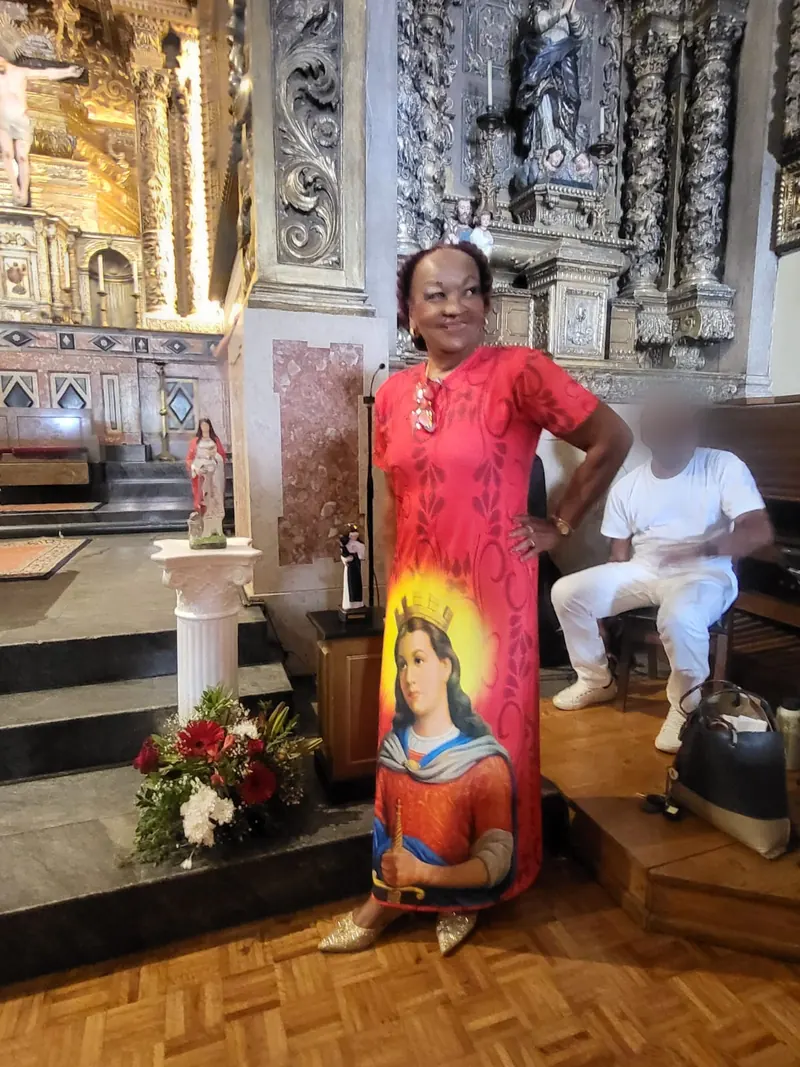
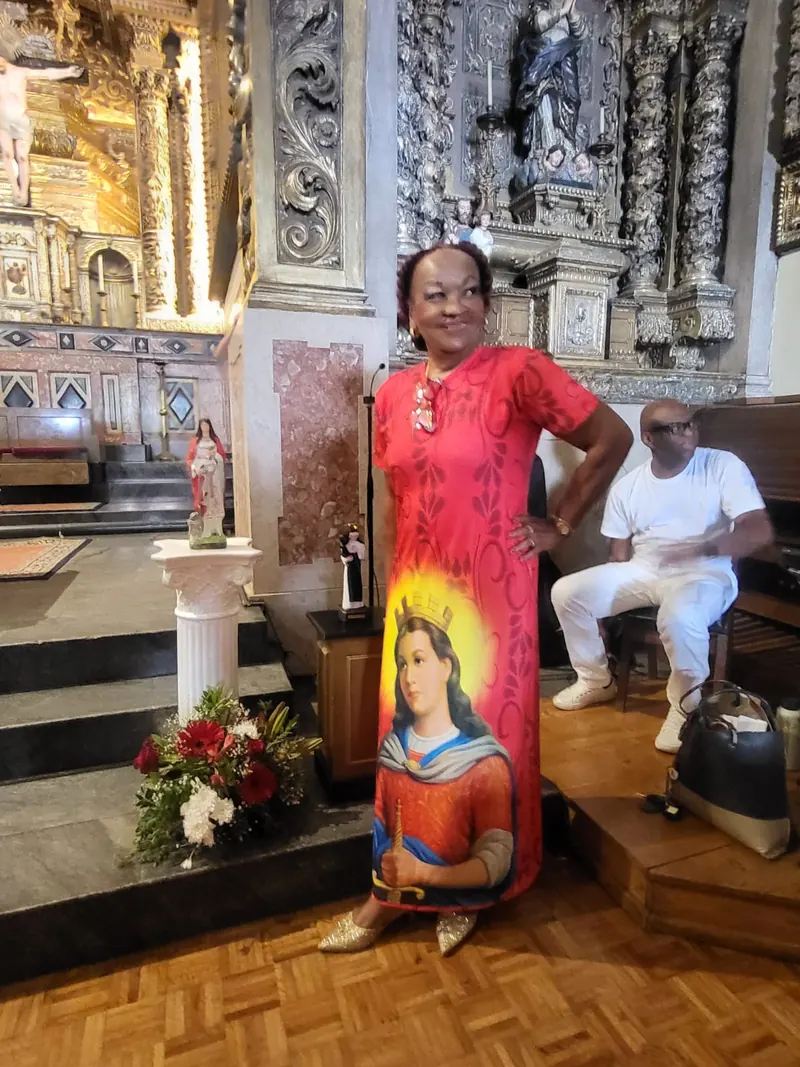
Passa os Amigos e os Guardiões para uma página própria e publica a fotografia inteira.
O texto deixa de estar no meio da festa. A foto da igreja sai sem desfoque, como ela enviou.

Changed region(s): [[0.75, 0.3402, 0.9062, 0.4639]]

diff --git a/src/data/eventos.ts b/src/data/eventos.ts
@@ -1,6 +1,4 @@
 // Facts only from the sources listed per event (checked 2026-11-11). Research and pending items: docs/PESQUISA-ASSOCIACAO.md.
-import type { Foto } from "./eventos-fotos";
-
 export type Fonte = { titulo: string; url: string };
 
 export type Evento = {
@@ -23,22 +21,7 @@ export type Evento = {
   celebracao?: Celebracao;
   // Institutional video; the page only draws it when `ficheiro` exists in public/ at build time.
   video?: VideoEvento;
-  // One window in the association's voice (president's text). Not a press fact.
-  janela?: JanelaGrupos;
   fontes: Fonte[];
-};
-
-export type JanelaGrupos = {
-  titulo: string;
-  intro: string[];
-  chamada: string;
-  grupos: string[];
-  fecho: string[];
-  saudacao: string;
-  adesaoTitulo: string;
-  adesao: string[];
-  legendaGaleria: string;
-  foto: Foto;
 };
 
 export type Celebracao = {
@@ -110,38 +93,6 @@ export const eventos: Evento[] = [
       descricao: "Como foi a 1.ª Festa de Santa Bárbara em Lisboa, organizada pelo Instituto Maria Andreza Sá em Arroios, de 4 a 6 de setembro de 2026.",
       duracao: "PT1M8S",
       carregadoEm: "2026-11-15",
-    },
-    janela: {
-      titulo: "Quem Somos: Os Amigos de Santa Bárbara, Protegidos por Oyá e os Guardiões da Ancestralidade",
-      intro: [
-        "A nossa história é feita de fé, gratidão e do reencontro de duas margens do Atlântico. Nascemos da união e do propósito de celebrar a espiritualidade e honrar as nossas raízes através da 1.ª Festa de Santa Bárbara em Lisboa, realizada no dia 6 de setembro de 2026, com uma emocionante missa na Igreja de Nossa Senhora dos Anjos, em Arroios.",
-        "Este marco histórico nasceu como projeto e produção do Instituto Cultural e Artístico Luso-Brasileiro Maria Andreza Sá, trazido a Lisboa como um gesto profundo de agradecimento ao povo português. A devoção a Santa Bárbara, celebrada há 384 anos em Salvador da Bahia, chegou a terras baianas pelas mãos de um casal português: Francisco Lago e Andreza de Araújo — nome que, por desígnio e bênção da vida, é também o da avó materna da fundadora deste projeto. Trazer esta festa para Portugal é devolver em forma de amor, cultura e fé uma herança que atravessou séculos.",
-      ],
-      chamada: "É neste espírito de irmandade que se ergue o nosso grupo:",
-      grupos: [
-        "Os Amigos de Santa Bárbara somos todos nós: homens e mulheres movidos pela fé, pela gratidão e pelo desejo de partilhar luz e esperança, reunindo as comunidades brasileira e portuguesa de coração aberto.",
-        "Os Guardiões da Ancestralidade representam o pilar sagrado da nossa Religião de Matriz Africana. Celebramos, reverenciamos e louvamos Oyá — essa Mulher forte, guerreira e imbatível, senhora dos ventos e das tempestades, que transforma e abre caminhos. Honramos profundamente os nossos Babás e herdeiros dessa tradição, que guardam os segredos, o axé e a magia da transformação, comprometidos com o cuidado e o destino de tantos que batem à sua porta em busca de amparo e renovação.",
-      ],
-      fecho: [
-        "Em Lisboa, celebramos esta ponte viva entre a Bahia e Portugal, entre a tradição católica e a força ancestral africana, num símbolo de respeito, resistência e união.",
-        "Que os ventos de Oyá e a proteção de Santa Bárbara continuem a guiar os nossos passos e a abençoar esta caminhada!",
-      ],
-      saudacao: "Eparrey Oyá! Salve Santa Bárbara!",
-      adesaoTitulo: "Junte-se a nós nas próximas edições!",
-      adesao: [
-        "A nossa caminhada está apenas a começar e as portas estão abertas para todos os que desejam partilhar esta energia de fé, cultura e irmandade. Se sente o chamado de Santa Bárbara, a força dos ventos de Oyá ou simplesmente deseja apoiar e participar na 2.ª Festa de Santa Bárbara em Lisboa (2027) e nas atividades do nosso grupo, venha fazer parte desta família!",
-        "Seja como devoto, voluntário, apoiante cultural ou membro da comunidade, a sua presença fortalece a nossa ponte entre a Bahia e Portugal.",
-      ],
-      legendaGaleria:
-        "Registos da 1.ª Festa de Santa Bárbara em Lisboa, no dia 6 de setembro de 2026. Da emocionante celebração na Igreja de Nossa Senhora dos Anjos ao cortejo pelas ruas de Arroios até ao Largo de Santa Bárbara, onde a fé, a cultura baiana e a ancestralidade se uniram num abraço histórico entre o Brasil e Portugal.",
-      foto: {
-        src: "/festa/maria-andreza-igreja-dos-anjos.webp",
-        src800: "/festa/maria-andreza-igreja-dos-anjos-800.webp",
-        alt: "Maria Andreza Sá na Igreja de Nossa Senhora dos Anjos, de vestido vermelho com a imagem de Santa Bárbara, na 1.ª Festa de Santa Bárbara em Lisboa.",
-        largura: 1200,
-        altura: 1600,
-        origem: "Fotografia enviada pela presidente",
-      },
     },
     fontes: [
       {

diff --git a/src/data/grupos.ts b/src/data/grupos.ts
@@ -1,0 +1,38 @@
+// President's text, 2026-11-23. One page for both groups. No member list.
+import type { Foto } from "./eventos-fotos";
+
+export const gruposPath = "/amigos-e-guardioes/";
+
+export const grupos = {
+  titulo: "Quem Somos: Os Amigos de Santa Bárbara, Protegidos por Oyá e os Guardiões da Ancestralidade",
+  intro: [
+    "A nossa história é feita de fé, gratidão e do reencontro de duas margens do Atlântico. Nascemos da união e do propósito de celebrar a espiritualidade e honrar as nossas raízes através da 1.ª Festa de Santa Bárbara em Lisboa, realizada no dia 6 de setembro de 2026, com uma emocionante missa na Igreja de Nossa Senhora dos Anjos, em Arroios.",
+    "Este marco histórico nasceu como projeto e produção do Instituto Cultural e Artístico Luso-Brasileiro Maria Andreza Sá, trazido a Lisboa como um gesto profundo de agradecimento ao povo português. A devoção a Santa Bárbara, celebrada há 384 anos em Salvador da Bahia, chegou a terras baianas pelas mãos de um casal português: Francisco Lago e Andreza de Araújo — nome que, por desígnio e bênção da vida, é também o da avó materna da fundadora deste projeto. Trazer esta festa para Portugal é devolver em forma de amor, cultura e fé uma herança que atravessou séculos.",
+  ],
+  chamada: "É neste espírito de irmandade que se ergue o nosso grupo:",
+  grupos: [
+    "Os Amigos de Santa Bárbara somos todos nós: homens e mulheres movidos pela fé, pela gratidão e pelo desejo de partilhar luz e esperança, reunindo as comunidades brasileira e portuguesa de coração aberto.",
+    "Os Guardiões da Ancestralidade representam o pilar sagrado da nossa Religião de Matriz Africana. Celebramos, reverenciamos e louvamos Oyá — essa Mulher forte, guerreira e imbatível, senhora dos ventos e das tempestades, que transforma e abre caminhos. Honramos profundamente os nossos Babás e herdeiros dessa tradição, que guardam os segredos, o axé e a magia da transformação, comprometidos com o cuidado e o destino de tantos que batem à sua porta em busca de amparo e renovação.",
+  ],
+  fecho: [
+    "Em Lisboa, celebramos esta ponte viva entre a Bahia e Portugal, entre a tradição católica e a força ancestral africana, num símbolo de respeito, resistência e união.",
+    "Que os ventos de Oyá e a proteção de Santa Bárbara continuem a guiar os nossos passos e a abençoar esta caminhada!",
+  ],
+  saudacao: "Eparrey Oyá! Salve Santa Bárbara!",
+  memoriasTitulo: "Memórias de um Dia Histórico: 6 de setembro de 2026",
+  memorias:
+    "Registos da 1.ª Festa de Santa Bárbara em Lisboa, no dia 6 de setembro de 2026. Da emocionante celebração na Igreja de Nossa Senhora dos Anjos ao cortejo pelas ruas de Arroios até ao Largo de Santa Bárbara, onde a fé, a cultura baiana e a ancestralidade se uniram num abraço histórico entre o Brasil e Portugal.",
+  adesaoTitulo: "Junte-se a nós nas próximas edições!",
+  adesao: [
+    "A nossa caminhada está apenas a começar e as portas estão abertas para todos os que desejam partilhar esta energia de fé, cultura e irmandade. Se sente o chamado de Santa Bárbara, a força dos ventos de Oyá ou simplesmente deseja apoiar e participar na 2.ª Festa de Santa Bárbara em Lisboa (2027) e nas atividades do nosso grupo, venha fazer parte desta família!",
+    "Seja como devoto, voluntário, apoiante cultural ou membro da comunidade, a sua presença fortalece a nossa ponte entre a Bahia e Portugal.",
+  ],
+  foto: {
+    src: "/festa/maria-andreza-igreja-dos-anjos.webp",
+    src800: "/festa/maria-andreza-igreja-dos-anjos-800.webp",
+    alt: "Maria Andreza Sá na Igreja de Nossa Senhora dos Anjos, de vestido vermelho com a imagem de Santa Bárbara, com uma pessoa sentada ao lado, na 1.ª Festa de Santa Bárbara em Lisboa.",
+    largura: 1200,
+    altura: 1600,
+    origem: "Fotografia enviada pela presidente",
+  } satisfies Foto,
+};

diff --git a/src/styles/global.css b/src/styles/global.css
@@ -825,8 +825,6 @@ a[data-slot="button"] { text-decoration: none; }
 @media (min-width: 1100px) {
   .areas__grid { grid-template-columns: repeat(6, 1fr); gap: 20px; }
   .area { grid-column: span 2; }
-  .area:nth-child(4),
-  .area:nth-child(5) { grid-column: span 3; }
 }
 
 /* Partners. One entry is a wide plate; more entries share the same card in a grid. */
@@ -965,6 +963,12 @@ a[data-slot="button"] { text-decoration: none; }
   font-size: clamp(2.5rem, 1.6rem + 4vw, 4.5rem);
   line-height: 1.04;
   letter-spacing: -0.02em;
+}
+.page-hero--long h1 {
+  max-width: 28ch;
+  font-size: clamp(1.75rem, 1.15rem + 1.6vw, 2.6rem);
+  line-height: 1.15;
+  letter-spacing: 0;
 }
 .page-hero__lede {
   max-width: 40em;
@@ -1391,7 +1395,7 @@ a[data-slot="button"] { text-decoration: none; }
 .gallery { margin-top: 12px; }
 .gallery__head { display: flex; align-items: baseline; justify-content: space-between; gap: 12px; margin-bottom: 16px; }
 .gallery__count { color: #5c564e; font-size: 0.875rem; }
-.gallery__legend { margin: -4px 0 16px; color: #3f392f; font-size: 1.0625rem; line-height: 1.6; }
+
 .gallery__grid { display: grid; grid-template-columns: repeat(2, 1fr); gap: 8px; }
 .gallery__grid--1 { grid-template-columns: 1fr; }
 .gallery__item { margin: 0; position: relative; overflow: hidden; border-radius: 10px; background: #efe6d4; }
@@ -1427,14 +1431,12 @@ a[data-slot="button"] { text-decoration: none; }
 .channels { align-content: start; }
 .site-nav a { white-space: nowrap; }
 @media (min-width: 1100px) {
-  .site-bar { gap: 20px; }
-  .site-nav { gap: 0; }
-  .site-nav a { padding-inline: 9px; font-size: 0.9375rem; }
-  .site-nav a::after { left: 9px; right: 9px; }
+  .site-bar { gap: 12px; }
+  .site-nav { gap: 0; flex: 1; justify-content: flex-end; min-width: 0; }
+  .site-nav a { padding-inline: 6px; font-size: 0.8125rem; }
+  .site-nav a::after { left: 6px; right: 6px; }
+  .brand-name { font-size: 1.125rem; }
   .brand-kicker { display: none; }
-}
-@media (min-width: 1240px) {
-  .brand-kicker { display: block; white-space: nowrap; font-size: 0.625rem; }
 }
 @media (max-width: 899px) {
   .seal--xl { width: min(64vw, 260px); }
@@ -1482,8 +1484,8 @@ a[data-slot="button"] { text-decoration: none; }
 .celebration__list strong { color: #6d1723; }
 .celebration__source { color: #5c564e; font-size: 0.875rem; }
 
-/* Groups window on the festa page (president's text, 2026-11-23). One block, not two. */
-.groups { display: grid; gap: 20px; align-content: start; margin-top: 24px; padding-top: 32px; border-top: 1px solid #d9ccb4; }
+/* Groups page (president's text, 2026-11-23). One page, not a block inside the festa. */
+.groups { display: grid; gap: 20px; align-content: start; }
 .groups .eyebrow { margin-bottom: -8px; }
 .groups > p { font-size: 1.125rem; line-height: 1.8; }
 .groups__list { list-style: disc; margin: 0; padding-left: 1.25rem; display: grid; gap: 14px; }

diff --git a/src/data/site.ts b/src/data/site.ts
@@ -104,6 +104,7 @@ export const nav = [
   { href: "/cultura/", label: "Cultura" },
   { href: "/portugal-e-brasil/", label: "Portugal e Brasil" },
   { href: "/projetos/", label: "Projetos" },
+  { href: "/amigos-e-guardioes/", label: "Amigos e Guardiões" },
   { href: "/noticias/", label: "Notícias" },
   { href: "/contactos/", label: "Contactos" },
 ] as const;
@@ -186,6 +187,13 @@ export const pages = {
         url: "https://aloalobahia.com/noticias/2026/08/28/alcione-sera-madrinha-da-primeira-festa-de-santa-barbara-realizada-em-lisboa/",
       },
     ],
+  },
+  amigos: {
+    path: "/amigos-e-guardioes/",
+    title: "Amigos e Guardiões | Maria Andreza Sá",
+    description:
+      "Os Amigos de Santa Bárbara, Protegidos por Oyá, e os Guardiões da Ancestralidade. O grupo da 1.ª Festa de Santa Bárbara em Lisboa.",
+    h1: "Quem Somos: Os Amigos de Santa Bárbara, Protegidos por Oyá e os Guardiões da Ancestralidade",
   },
   projetos: {
     path: "/projetos/",

diff --git a/docs/CONTEUDO.md b/docs/CONTEUDO.md
@@ -245,7 +245,7 @@ Celebração eucarística em honra de Santa Bárbara no domingo, 6 de setembro d
 
 Correção de 17 de novembro de 2026, pedida pela presidente: o programa anunciado (exposição, mostra de moda e grupos até à Abadá Capoeira) não se realizou e saiu da página do evento e de /cultura/. O padrinho e os embaixadores não leram as preces, porque não puderam vir; continuam no agradecimento. A Junta de Freguesia de Arroios saiu dos agradecimentos. O rótulo da secção passou de «Segundo o missal» a «A celebração». A fonte diz que o cortejo, os cânticos e os agradecimentos foram corrigidos nessa data.
 
-Janela de 23 de novembro de 2026, texto da presidente, campo `janela` em `eventos.ts`. Uma secção só, na página da festa, para os Amigos de Santa Bárbara, Protegidos por Oyá e os Guardiões da Ancestralidade: origem da festa, os dois grupos, a saudação, o convite à 2.ª edição em 2027 (sem dia) e os contactos do instituto (e-mail, telefone, site). Não há lista de membros. A homenagem ao marido continua fora: não chegou texto nem o nome a publicar. A fotografia é dela na igreja (`public/festa/maria-andreza-igreja-dos-anjos.webp`), com o rosto de outra pessoa desfocado. A legenda da galeria, também dela, fala no cortejo até ao Largo de Santa Bárbara. O parágrafo «o que a imprensa registou» mantém a Praça da Figueira.
+Página de 23 de novembro de 2026, texto da presidente, em `/amigos-e-guardioes/` (`src/data/grupos.ts`). Uma página só para os Amigos de Santa Bárbara, Protegidos por Oyá e os Guardiões da Ancestralidade: origem da festa, os dois grupos, a saudação, as memórias do cortejo até ao Largo de Santa Bárbara, o convite à 2.ª edição em 2027 (sem dia) e os contactos do instituto (e-mail, telefone, site). O Instagram entra com o rótulo «Instagram da Festa de Santa Bárbara». Não há lista de membros nem Facebook. A homenagem ao marido continua fora: não chegou texto nem o nome a publicar. A fotografia é dela na igreja (`public/festa/maria-andreza-igreja-dos-anjos.webp`), publicada inteira: ela pediu a foto como está e o Leo mandou não a desfocar. A página da festa fica com um apontador para esta. O parágrafo «o que a imprensa registou» mantém a Praça da Figueira.
 
 Notícia de 23 de novembro de 2026: «Primeira Festa de Santa Bárbara/Oyá na Europa agitou Lisboa», Portal Turismo Total, 7 de setembro de 2026. Diz que a reportagem existe e aponta a página da festa. Não descreve o programa anunciado que não se realizou.
 

diff --git a/docs/ESTADO.md b/docs/ESTADO.md
@@ -1,12 +1,12 @@
 # Estado
 
-Atualizado a 2026-11-23, com a janela dos Amigos de Santa Bárbara, Protegidos por Oyá e dos Guardiões da Ancestralidade na página da festa, a fotografia dela na igreja e a reportagem de 7 de setembro na lista de notícias. O domínio e o `www` estão verificados na Vercel.
+Atualizado a 2026-11-23, com a página própria dos Amigos de Santa Bárbara, Protegidos por Oyá e dos Guardiões da Ancestralidade, a fotografia dela na igreja publicada inteira, e a reportagem de 7 de setembro na lista de notícias. O domínio e o `www` estão verificados na Vercel.
 
 Estimativa do projeto: **95%**. O site e o DNS estão feitos. Falta o que a associação ainda não fechou.
 
 ## Feito
 
-- 2026-11-23: janela única na página da 1.ª Festa de Santa Bárbara, com o texto da presidente sobre os Amigos de Santa Bárbara, Protegidos por Oyá e os Guardiões da Ancestralidade. Sem lista de nomes. A homenagem ao marido não entrou: não veio texto. Fotografia dela na Igreja de Nossa Senhora dos Anjos em `public/festa/` (o rosto de outra pessoa, sentada à direita, ficou desfocado). Notícia nova com a reportagem do Portal Turismo Total de 7 de setembro de 2026, sem o programa que não se realizou. Convite à 2.ª festa em 2027, sem dia marcado.
+- 2026-11-23: página própria `/amigos-e-guardioes/` com o texto da presidente sobre os Amigos de Santa Bárbara, Protegidos por Oyá e os Guardiões da Ancestralidade. Não fica no meio da página da festa: lá há um apontador. Sem lista de nomes. A homenagem ao marido não entrou: não veio texto. Fotografia dela na Igreja de Nossa Senhora dos Anjos em `public/festa/`, inteira, sem desfoque, por indicação dela e do Leo. Notícia com a reportagem do Portal Turismo Total de 7 de setembro de 2026, sem o programa que não se realizou. Convite à 2.ª festa em 2027, sem dia marcado.
 
 - 2026-11-17 (parceiros): secção na home, entre Portugal e Brasil e o índice do site. A primeira é a Associação Comadres de Cascais, com o logótipo dela e a ligação para comadresdecascais.com. A campanha de pijamas de dezembro continua por publicar.
 
